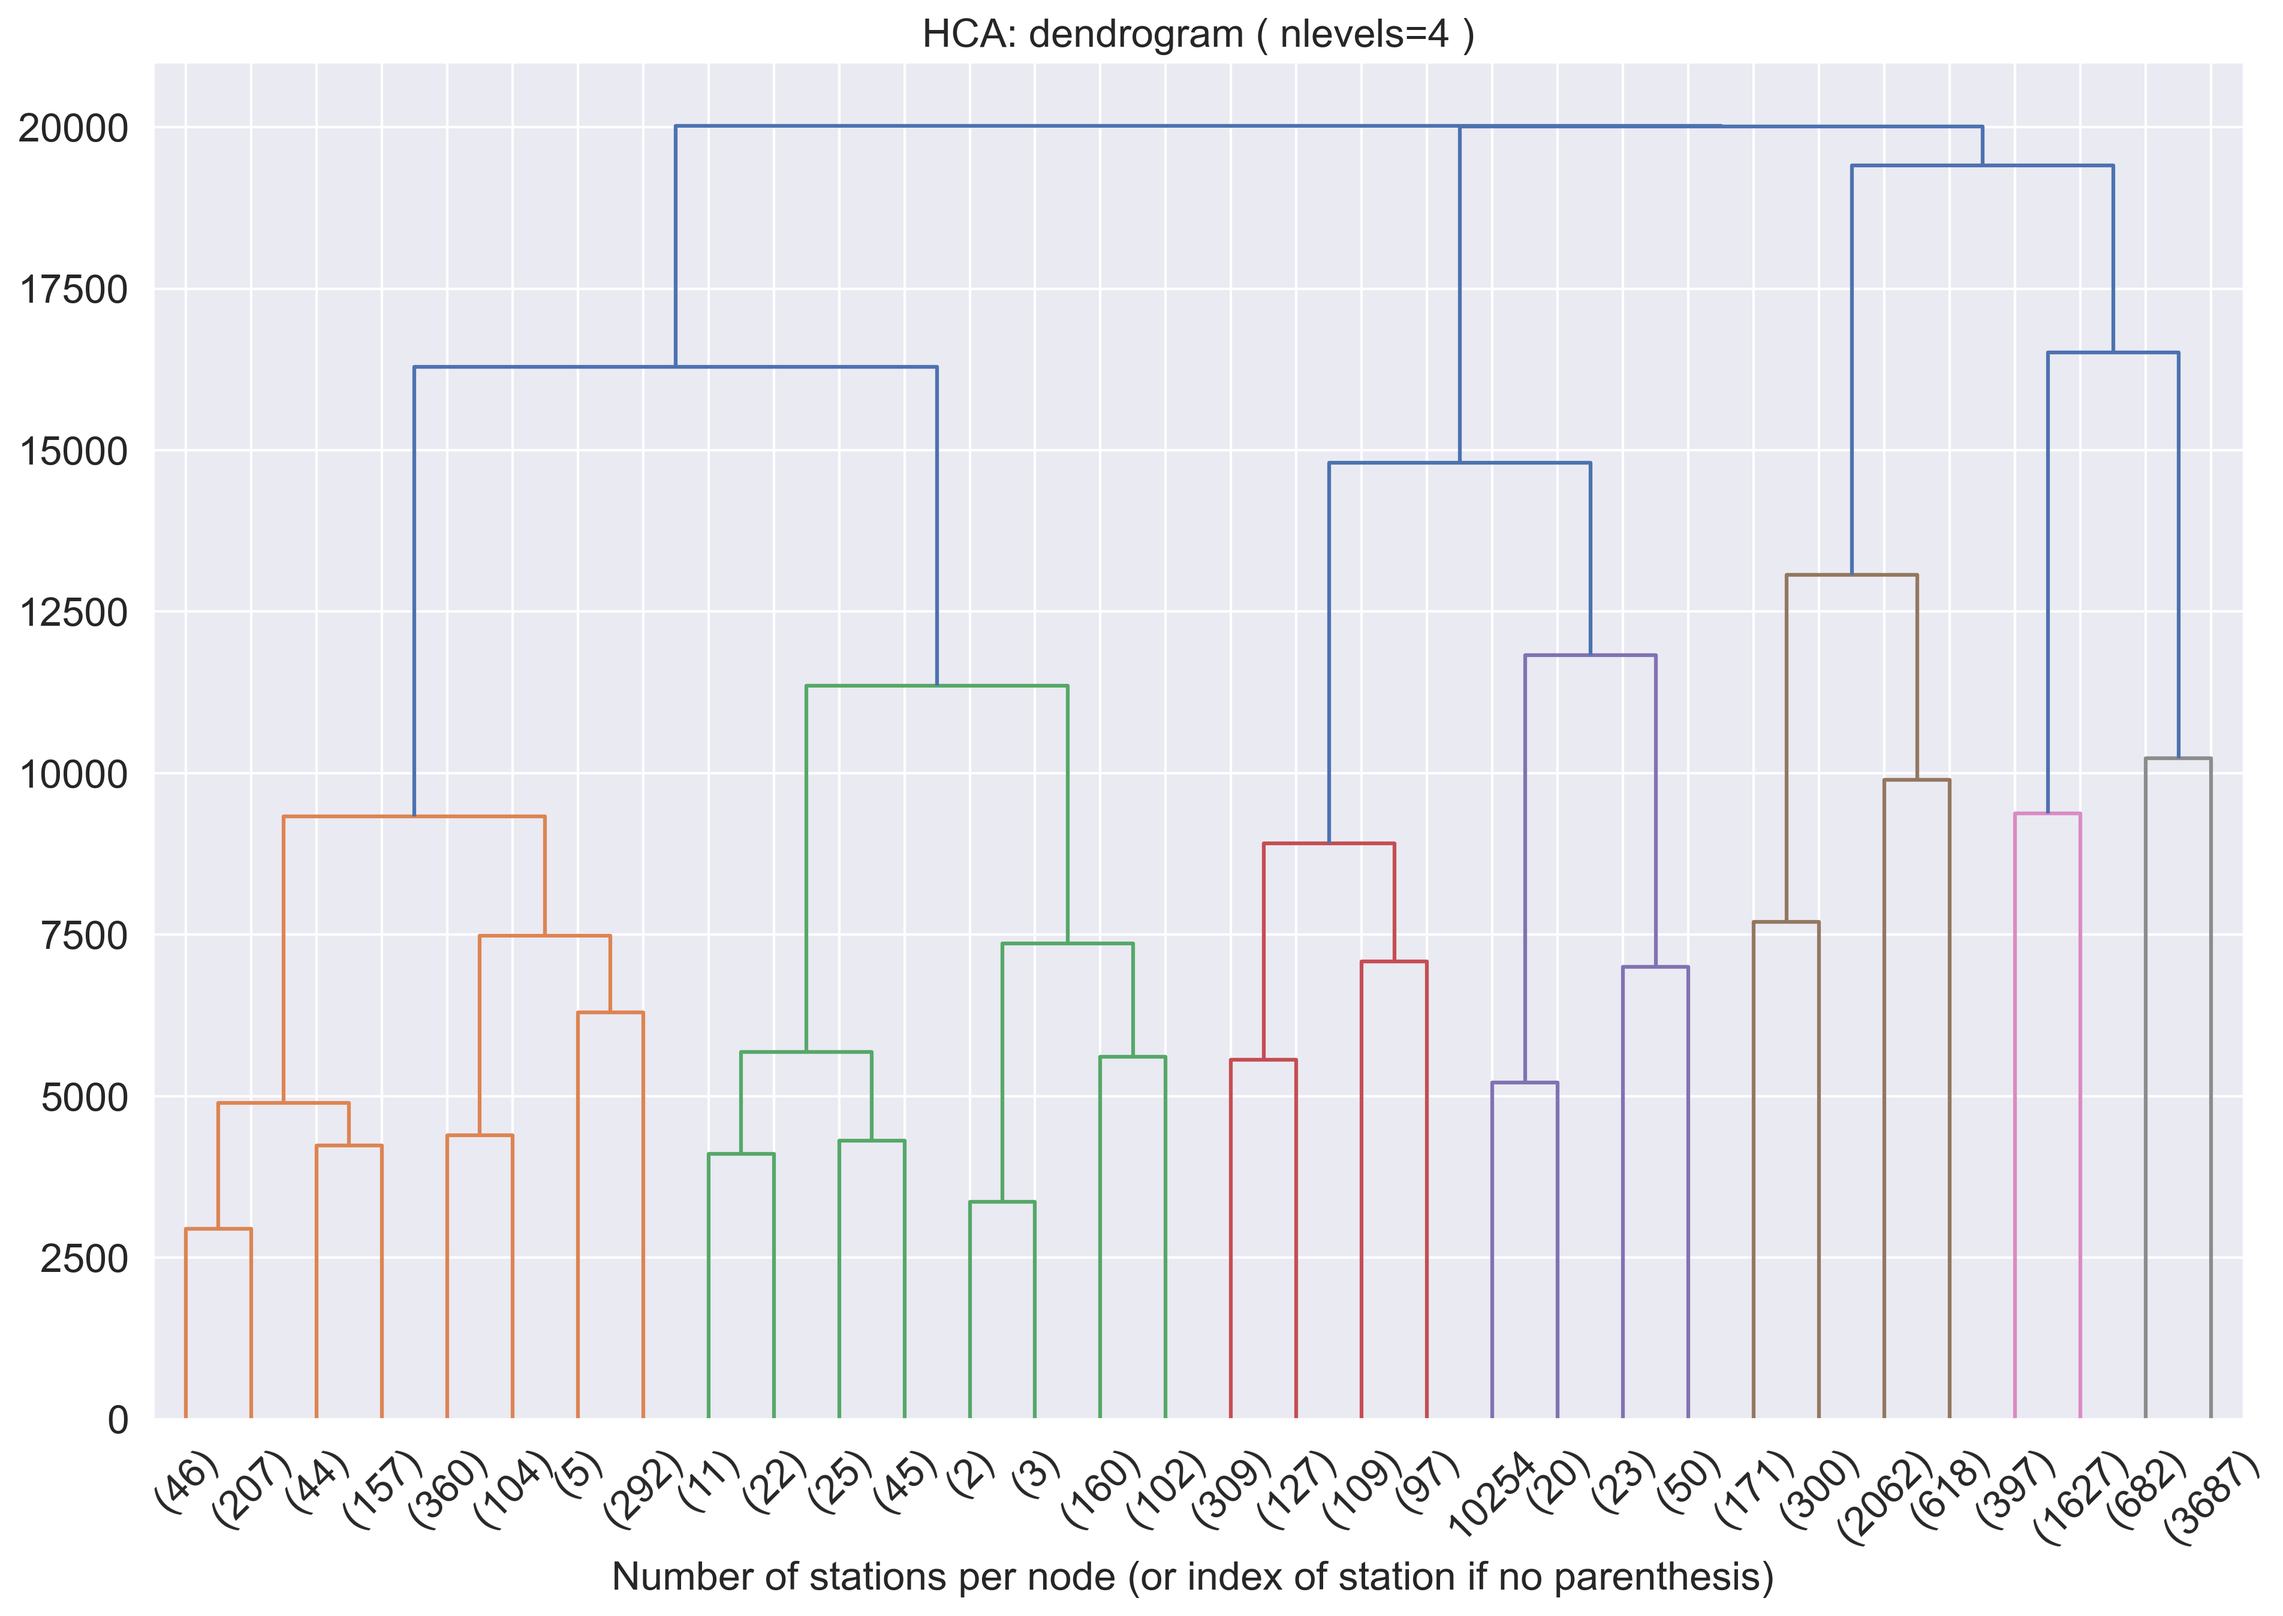
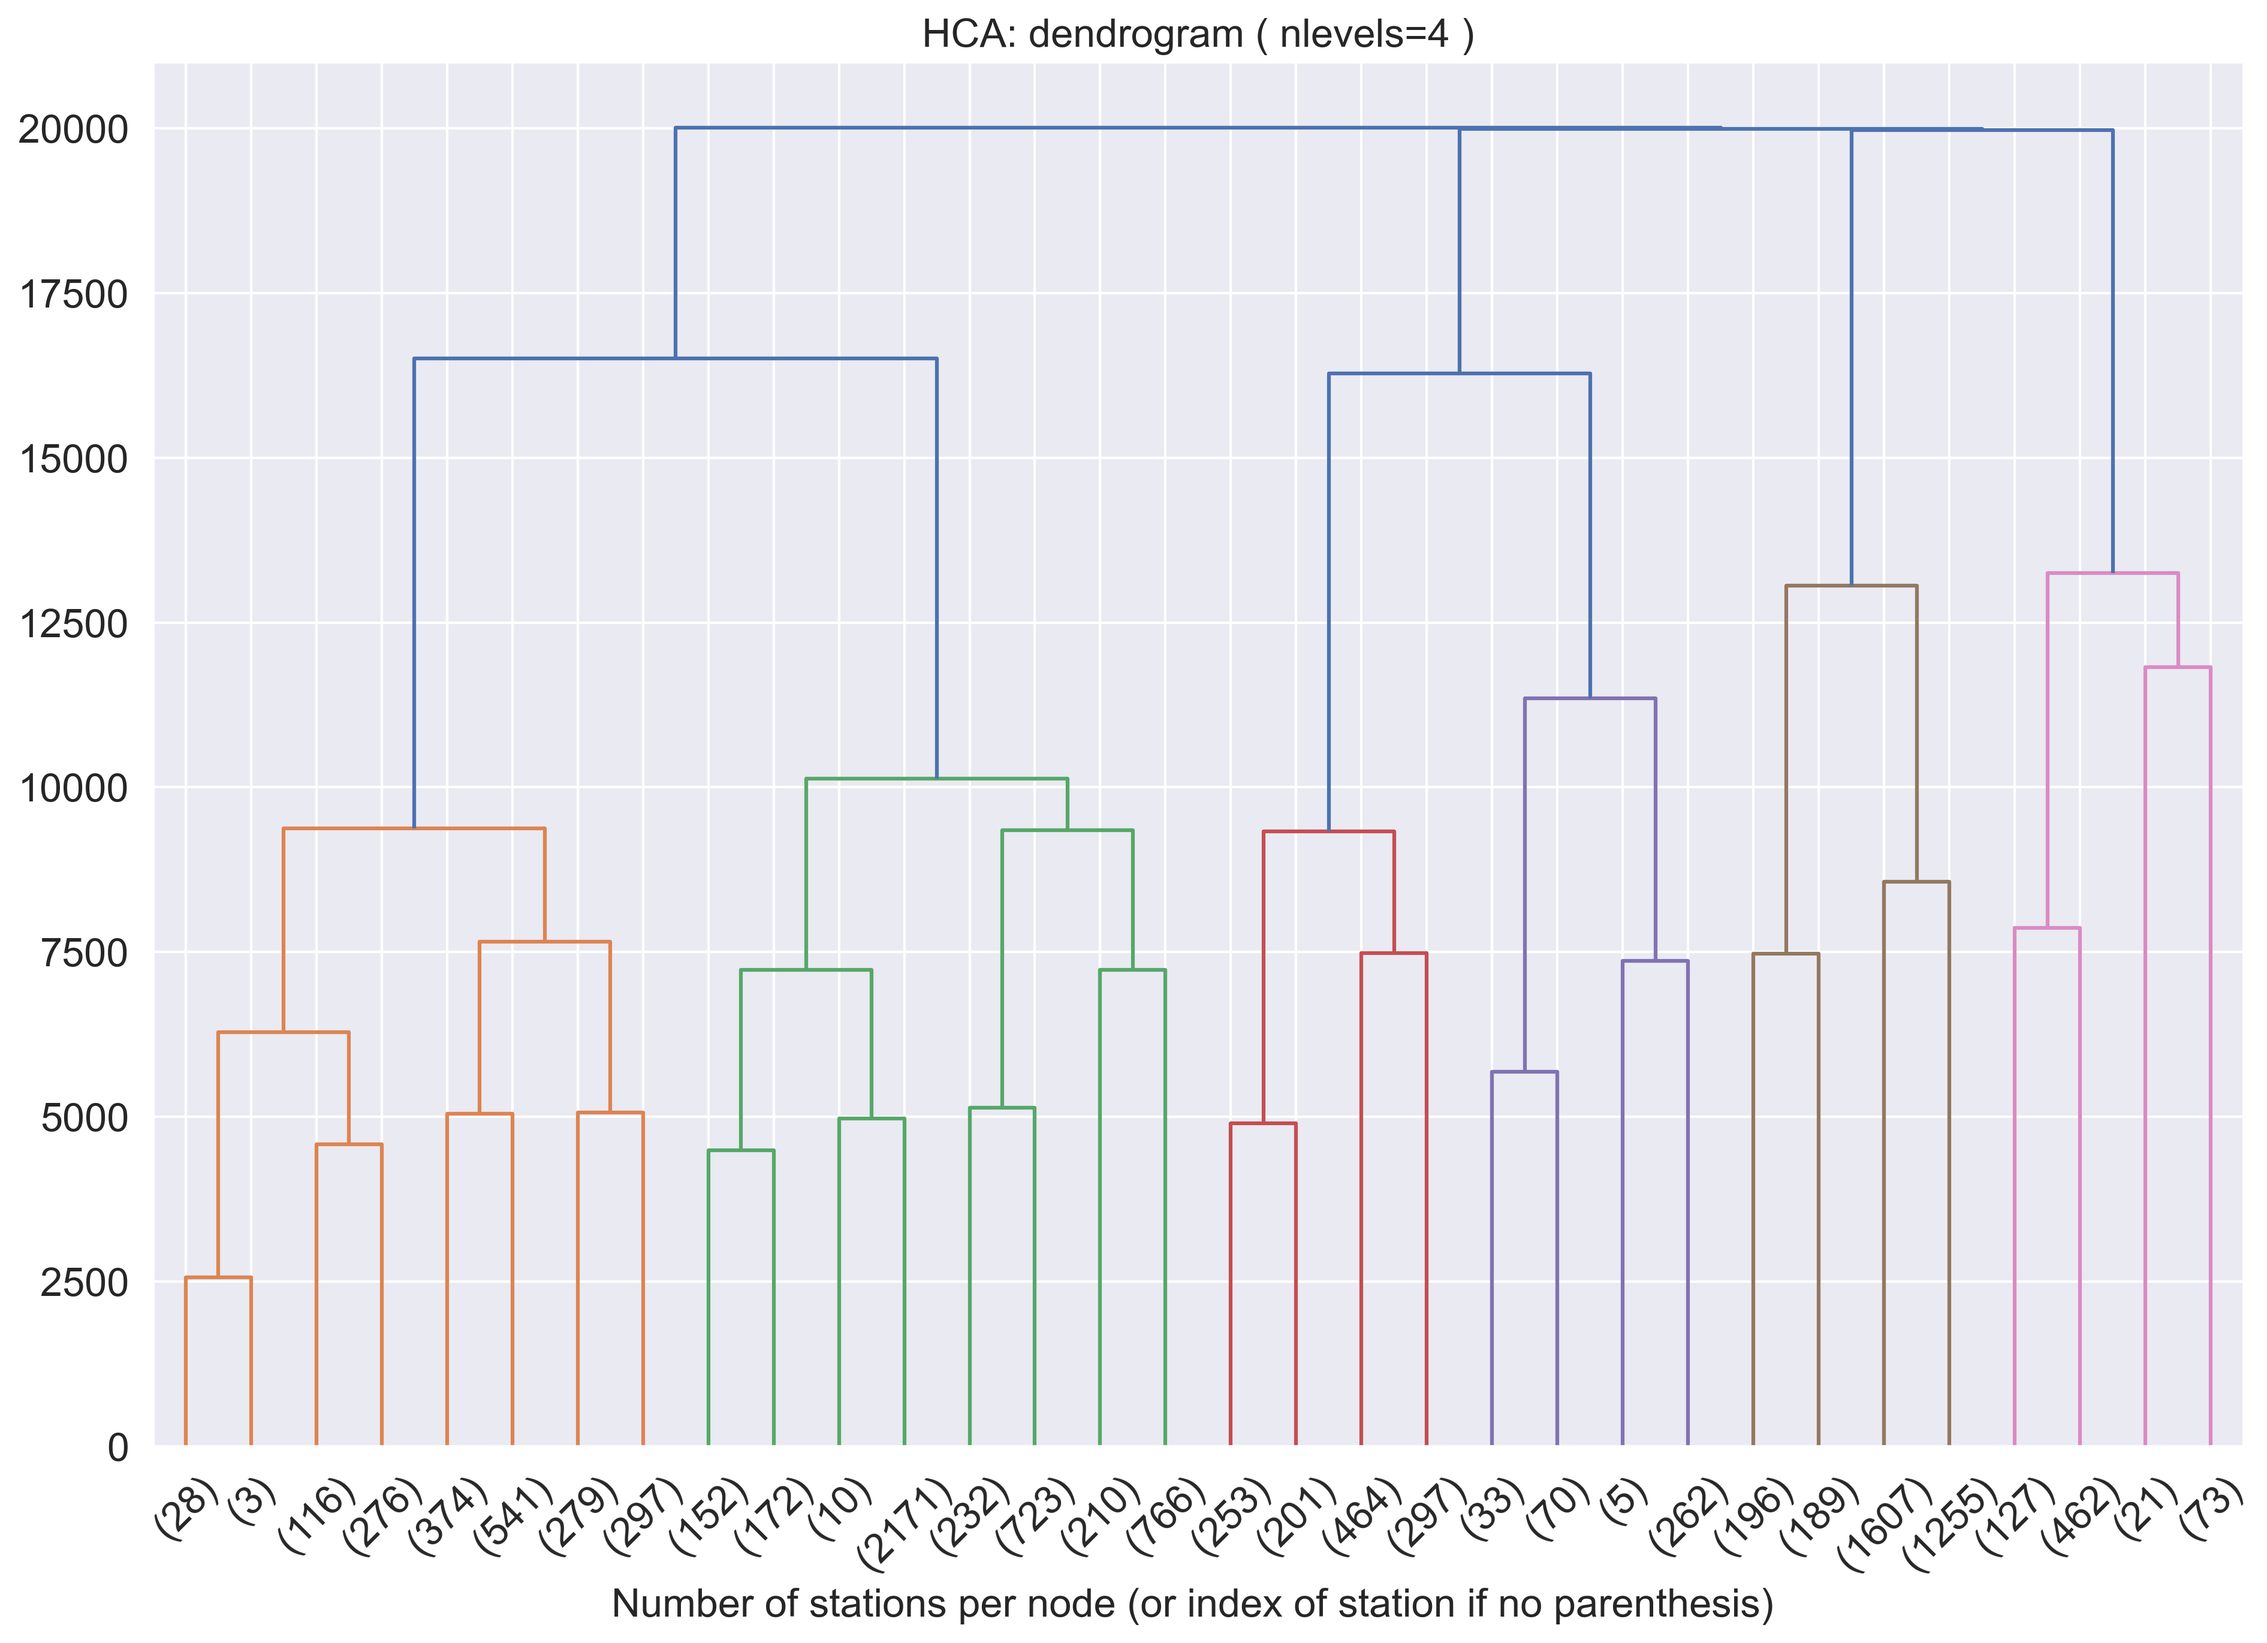
Updated Catopy map default projection to Mollweide

diff --git a/stations_nonormals_and_normals_all.py b/stations_nonormals_and_normals_all.py
@@ -54,13 +54,6 @@ plot_station_locations = True
 show_gridlines = True
 projection = 'mollweide'        
 
-# get natural earth names (http://www.naturalearthdata.com/)
-
-#resolution = '10m'
-#category = 'cultural'
-#name = 'admin_0_countries'
-#shapefilename = shapereader.natural_earth(resolution, category, name)   
-
 #------------------------------------------------------------------------------
 # LOAD: absolute temperatures and normals
 #------------------------------------------------------------------------------
@@ -70,7 +63,6 @@ df_anom_in = pd.read_pickle('DATA/df_anom.pkl', compression='bz2')
 df_normals = pd.read_pickle('DATA/df_normals.pkl', compression='bz2')
 df_temp = df_temp_in.copy()
 df_anom = df_anom_in[df_anom_in['stationcode'].isin(df_normals[df_normals['sourcecode']>1]['stationcode'])]
-#df_temp_in = []; df_anom_in = []; df_normals = []
 
 dt = df_temp.copy() # all stations
 da = df_anom.copy() # anomalies
@@ -110,8 +102,6 @@ if plot_station_locations == True:
     ax = plt.axes(projection=p)    
     ax.set_global()
     ax.stock_img()
-#    ax.coastlines()
-#    ax.add_feature(cartopy.feature.OCEAN, zorder=0, edgecolor=None)    
     if show_gridlines == True:
         ax.gridlines()     
         if projection == 'platecarree':

diff --git a/glosat-hca.py b/glosat-hca.py
@@ -35,7 +35,7 @@ import matplotlib
 import matplotlib.pyplot as plt
 from matplotlib import rcParams
 import seaborn as sns; sns.set()
-mport cartopy
+import cartopy
 import cartopy.crs as ccrs
 from cartopy.mpl.ticker import LongitudeFormatter, LatitudeFormatter
 from cartopy.mpl.gridliner import LONGITUDE_FORMATTER, LATITUDE_FORMATTER
@@ -49,12 +49,12 @@ import matplotlib.ticker as mticker
 #-----------------------------------------------------------------------------
 
 maxsize = 700
-nclusters = 50
+nclusters = 10
 
 fontsize = 16 
 use_dark_theme = False
 export_pkl = True
-plot_separate_clusters = False
+plot_separate_clusters = True
 if use_dark_theme == True:
     default_color = 'white'
 else:    
@@ -160,7 +160,6 @@ df_temp = pd.read_pickle('DATA/df_temp.pkl', compression='bz2')
 # MASK: stations without lat or lon
 
 stationcode_fails = df_temp[ (np.isnan( df_temp['stationlat'] )) | (np.isnan( df_temp['stationlon'] )) ].stationcode.unique()
-#085997, 099999, 685807, 688607, 967811, 999096, 999099, 999216
 df_temp_nonan = df_temp.drop( df_temp[ (np.isnan( df_temp['stationlat'] )) | (np.isnan( df_temp['stationlon'] )) ].index )
 df_temp = df_temp_nonan.copy()
 

diff --git a/stations_nonormals_and_normals_evolution.py b/stations_nonormals_and_normals_evolution.py
@@ -68,12 +68,7 @@ plot_nonormals_stations_world = True
 plot_nonormals_stations_gridcount_world = False
 
 show_gridlines = True
-projection = 'robinson'        
-# get natural earth names (http://www.naturalearthdata.com/)
-#resolution = '10m'
-#category = 'cultural'
-#name = 'admin_0_countries'
-#shapefilename = shapereader.natural_earth(resolution, category, name)   
+projection = 'mollweide'        
 
 #------------------------------------------------------------------------------
 # METHODS
